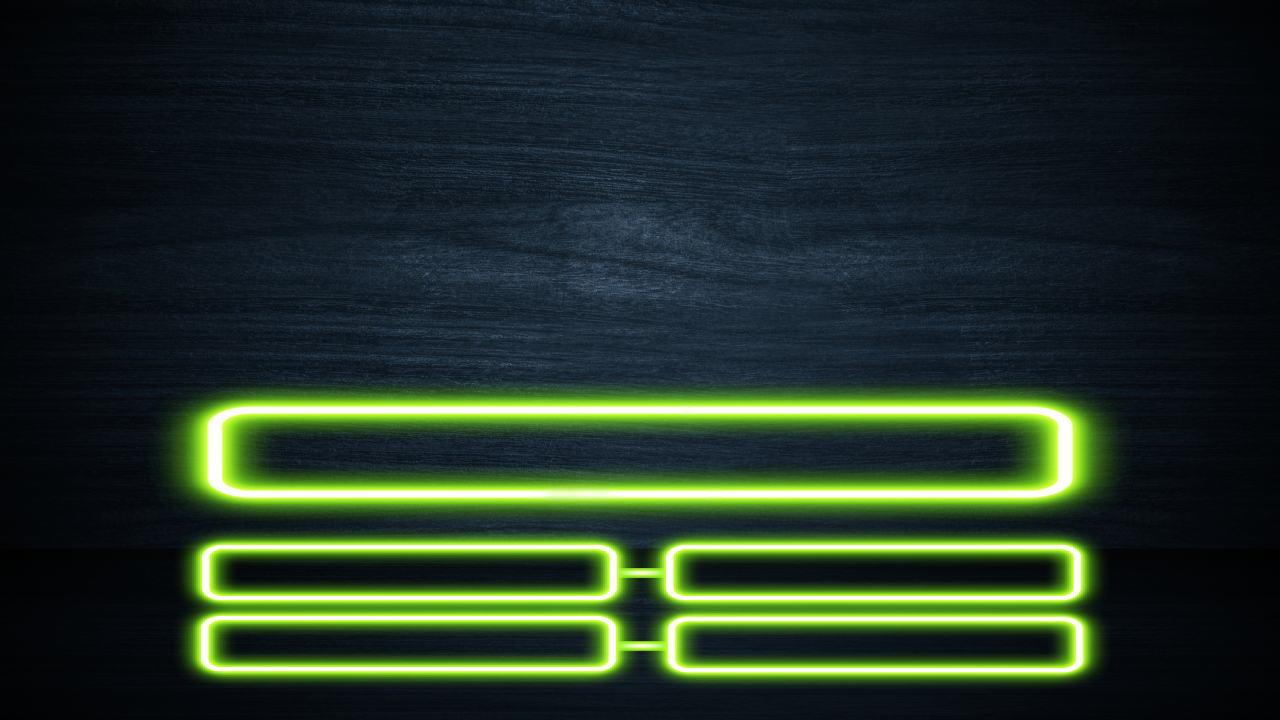
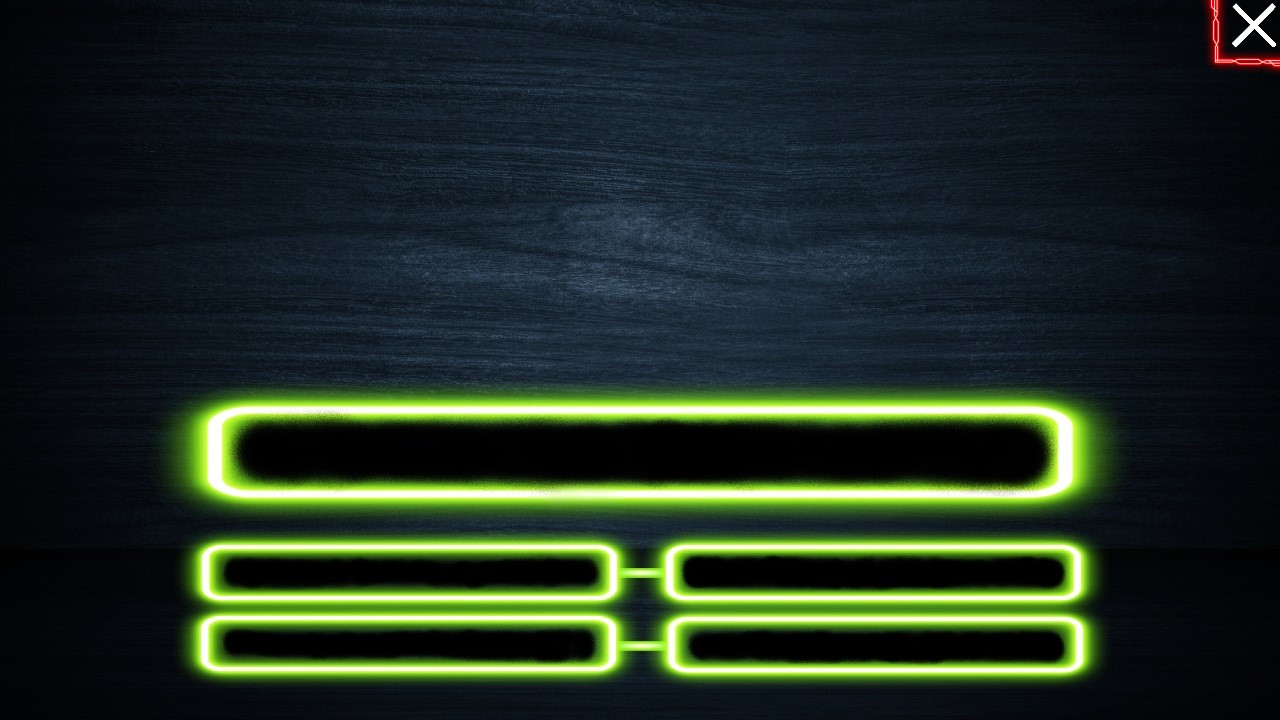
Changing to pygame cd4

Changed region(s): [[0.1562, 0.7333, 0.8438, 0.9472], [0.1562, 0.55, 0.8438, 0.7028], [0.9375, 0.0, 1.0, 0.1222]]

diff --git a/QuizGame/src/mode1.py b/QuizGame/src/mode1.py
@@ -2,13 +2,33 @@ import sys
 import pandas
 import pygame
 from pygame.locals import *
-from utils import drawText, drawProgressBar
+from utils import  show_friends, draw_background, draw_lifebuoys, draw_options, draw_question, draw_score_table,draw_timer
+import random
 
 OLIVE_GREEN = (193, 203, 15)
+def use_50_50(abcd):
+        incorrect_answers = [i for i, ans in enumerate(abcd) if not ans[1]]
+        return random.sample(incorrect_answers, 2)
 
 def mode1_play(window, width):
     bg_img = pygame.image.load('QuizGame/src/resources/game/bg.jpg').convert_alpha()
     option_hover = pygame.image.load('QuizGame/src/resources/game/answer_hover.png').convert_alpha()
+    score_table = [pygame.image.load('QuizGame/src/resources/game/score_table1.jpg').convert_alpha(),
+                    pygame.image.load('QuizGame/src/resources/game/score_table2.jpg').convert_alpha(),
+                    pygame.image.load('QuizGame/src/resources/game/score_table3.jpg').convert_alpha(),
+                    pygame.image.load('QuizGame/src/resources/game/score_table4.jpg').convert_alpha(),
+                    pygame.image.load('QuizGame/src/resources/game/score_table5.jpg').convert_alpha(),
+                    pygame.image.load('QuizGame/src/resources/game/score_table6.jpg').convert_alpha(),
+                    pygame.image.load('QuizGame/src/resources/game/score_table7.jpg').convert_alpha(),
+                    pygame.image.load('QuizGame/src/resources/game/score_table8.jpg').convert_alpha(),
+                    pygame.image.load('QuizGame/src/resources/game/score_table9.jpg').convert_alpha(),
+                    pygame.image.load('QuizGame/src/resources/game/score_table10.jpg').convert_alpha(),
+                    pygame.image.load('QuizGame/src/resources/game/score_table11.jpg').convert_alpha(),
+                    pygame.image.load('QuizGame/src/resources/game/score_table12.jpg').convert_alpha()]
+    
+    lifebuoy_50 =  pygame.image.load('QuizGame/src/resources/game/lifebuoy_50.png').convert_alpha()
+    lifebuoy_friend =  pygame.image.load('QuizGame/src/resources/game/lifebuoy_friend.png').convert_alpha()
+    lifebuoy_time =  pygame.image.load('QuizGame/src/resources/game/lifebuoy_time.png').convert_alpha()
 
     q_base_easy = pandas.read_excel('QuizGame/src/resources/questionsBase.xlsx', "easy", usecols = "A,B,C,D,E,F").to_dict('index')
     q_base_medium = pandas.read_excel('QuizGame/src/resources/questionsBase.xlsx', "medium", usecols = "A,B,C,D,E,F").to_dict('index')
@@ -21,64 +41,47 @@ def mode1_play(window, width):
     question_number = 0
     running = True
     load_next_question = True
+    used_lifebuoy_50 = False
+    used_lifebuoy_friend = False
+    used_lifebuoy_time = False
     start_time = pygame.time.get_ticks()
+    hidden_answers = []
+
+    
+
     while running:
         mouse_pointer = pygame.mouse.get_pos()
-        time_left = full_time - (pygame.time.get_ticks()-start_time)/1000
-        if int(time_left) >= 0:
-            text = timerfont.render(str(int(time_left)), True, (184, 193, 209))
-        window.blit(bg_img,(0,0))
-        text_rect = text.get_rect(center=(width // 2, 200))
-        window.blit(text, text_rect)
+        time_left = full_time - (pygame.time.get_ticks() - start_time) / 1000
 
-        if time_left > 0.1:
-            progress_rect = pygame.Rect(520, 330, 240, 16)
-            drawProgressBar(window, progress_rect, time_left / 30)
+        if  int(time_left) <= 0 or question_number >= 12:
+            sys.exit()
+            running = False
+
+        draw_background(window, bg_img)
+        draw_timer(window, timerfont, time_left, width)
+        draw_score_table(window, score_table, question_number)
 
         if load_next_question:
+            hidden_answers = []
             if question_number <= 3:
                 Q = q_base_easy[question_number]["PYTANIE"]
-                ABCD = [(q_base_easy[question_number]["A"], True), (q_base_easy[question_number]["B"], False), (q_base_easy[question_number]["C"], False), (q_base_easy[question_number]["D"], False)]
+                ABCD = [(q_base_easy[question_number]["A"], True), (q_base_easy[question_number]["B"], False),
+                        (q_base_easy[question_number]["C"], False), (q_base_easy[question_number]["D"], False)]
                 load_next_question = False
             elif question_number <= 7:
                 Q = q_base_medium[question_number - 4]["PYTANIE"]
-                ABCD = [(q_base_medium[question_number - 4]["A"], True), (q_base_medium[question_number - 4]["B"], False), (q_base_medium[question_number - 4]["C"], False), (q_base_medium[question_number - 4]["D"], False)]
+                ABCD = [(q_base_medium[question_number - 4]["A"], True), (q_base_medium[question_number - 4]["B"], False),
+                        (q_base_medium[question_number - 4]["C"], False), (q_base_medium[question_number - 4]["D"], False)]
                 load_next_question = False
             else:
                 Q = q_base_hard[question_number - 8]["PYTANIE"]
-                ABCD = [(q_base_hard[question_number - 8]["A"], True), (q_base_hard[question_number - 8]["B"], False), (q_base_hard[question_number - 8]["C"], False), (q_base_hard[question_number - 8]["D"], False)]
+                ABCD = [(q_base_hard[question_number - 8]["A"], True), (q_base_hard[question_number - 8]["B"], False),
+                        (q_base_hard[question_number - 8]["C"], False), (q_base_hard[question_number - 8]["D"], False)]
                 load_next_question = False
 
-        Q_frame = pygame.Rect(240, 430, 1045 - 240, 480 - 420)
-        drawText(window, Q, "white", Q_frame, qafont, True)
-
-        optionA_frame = pygame.Rect(210, 560, 370, 30)
-        if 206 < mouse_pointer[0] < 610 and 548 < mouse_pointer[1] < 598:
-            window.blit(option_hover, (208, 548))
-            drawText(window, ABCD[0][0], "black", optionA_frame, qafont, True)
-        else:
-            drawText(window, ABCD[0][0], "white", optionA_frame, qafont, True)
-
-        optionB_frame = pygame.Rect(690, 560, 370, 30)
-        if 675 < mouse_pointer[0] < 1076 and 548 < mouse_pointer[1] < 598:
-            window.blit(option_hover, (670, 548))
-            drawText(window, ABCD[1][0], "black", optionB_frame, qafont, True)
-        else:
-            drawText(window, ABCD[1][0], "white", optionB_frame, qafont, True)
-
-        optionC_frame = pygame.Rect(210, 630, 370, 30)
-        if 206 < mouse_pointer[0] < 610 and 620 < mouse_pointer[1] < 665:
-            window.blit(option_hover, (206, 619))
-            drawText(window, ABCD[2][0], "black", optionC_frame, qafont, True)
-        else:
-            drawText(window, ABCD[2][0], "white", optionC_frame, qafont, True)
-
-        optionD_frame = pygame.Rect(690, 630, 370, 30)
-        if 675 < mouse_pointer[0] < 1076 and 620 < mouse_pointer[1] < 665:
-            window.blit(option_hover, (674, 620))
-            drawText(window, ABCD[3][0], "black", optionD_frame, qafont, True)
-        else:
-            drawText(window, ABCD[3][0], "white", optionD_frame, qafont, True)
+        draw_question(window, Q, qafont)
+        draw_options(window, ABCD, qafont, mouse_pointer, option_hover, hidden_answers)
+        draw_lifebuoys(window, lifebuoy_50, lifebuoy_time, lifebuoy_friend, used_lifebuoy_50, used_lifebuoy_time, used_lifebuoy_friend)
 
         pygame.display.update()
 
@@ -87,37 +90,48 @@ def mode1_play(window, width):
                 running = False
             if event.type == MOUSEBUTTONDOWN:
                 if event.button == 1:
-                    if 206 < mouse_pointer[0] < 610 and 548 < mouse_pointer[1] < 598:
+                    if 206 < mouse_pointer[0] < 610 and 548 < mouse_pointer[1] < 598 and 0 not in hidden_answers:
                         question_number += 1
                         start_time = pygame.time.get_ticks()
                         full_time = 30
-                        if ABCD[0][1] == 'F':
+                        if not ABCD[0][1]:
                             sys.exit()
                         else:
                             load_next_question = True
-                    if 675 < mouse_pointer[0] < 1076 and 548 < mouse_pointer[1] < 598:
+                    if 675 < mouse_pointer[0] < 1076 and 548 < mouse_pointer[1] < 598 and 1 not in hidden_answers:
                         question_number += 1
                         start_time = pygame.time.get_ticks()
                         full_time = 30
-                        if ABCD[1][1] == 'F':
+                        if not ABCD[1][1]:
                             sys.exit()
                         else:
                             load_next_question = True
-                    if 206 < mouse_pointer[0] < 610 and 620 < mouse_pointer[1] < 665:
-                        start_time = pygame.time.get_ticks()
-                        full_time = 30
-                        if ABCD[2][1] == 'F':
-                            sys.exit()
-                        else:
-                            load_next_question = True
-                    if 675 < mouse_pointer[0] < 1076 and 620 < mouse_pointer[1] < 665:
+                    if 206 < mouse_pointer[0] < 610 and 620 < mouse_pointer[1] < 665 and 2 not in hidden_answers:
                         question_number += 1
                         start_time = pygame.time.get_ticks()
                         full_time = 30
-                        if ABCD[3][1] == 'F':
+                        if not ABCD[2][1]:
+                            sys.exit()
+                        else:
+                            load_next_question = True
+                    if 675 < mouse_pointer[0] < 1076 and 620 < mouse_pointer[1] < 665 and 3 not in hidden_answers:
+                        question_number += 1
+                        start_time = pygame.time.get_ticks()
+                        full_time = 30
+                        if not ABCD[3][1]:
                             sys.exit()
                         else:
                             load_next_question = True
 
-                    if 1106 < mouse_pointer[0] < 1249 and 12 < mouse_pointer[1] < 36:
+                    if 520 < mouse_pointer[0] < 590 and 310 < mouse_pointer[1] < 380 and not used_lifebuoy_50:
+                        used_lifebuoy_50 = True
+                        hidden_answers = use_50_50(ABCD)
+                    if 600 < mouse_pointer[0] < 670 and 310 < mouse_pointer[1] < 380 and not used_lifebuoy_time:
+                        used_lifebuoy_time = True
+                        full_time += 30
+                    if 680 < mouse_pointer[0] < 750 and 310 < mouse_pointer[1] < 380 and not used_lifebuoy_friend:
+                        used_lifebuoy_friend = True
+                        show_friends()
+
+                    if 1215 < mouse_pointer[0] < 1280 and 0 < mouse_pointer[1] < 62:
                         sys.exit()

diff --git a/QuizGame/src/utils.py b/QuizGame/src/utils.py
@@ -1,61 +1,98 @@
 # drawing_utils.py
 import pygame
+def draw_background(window, bg_img):
+    window.blit(bg_img, (0, 0))
 
-GREEN = (193, 203, 15)
-BLACK = (0, 0, 0)
+def draw_timer(window, timerfont, time_left, width):
+    text = timerfont.render(str(int(time_left)), True, (184, 193, 209))
+    text_rect = text.get_rect(center=(width // 2, 200))
+    window.blit(text, text_rect)
 
-def drawProgressBar(surface, rect, progress):
-    filled_rect = pygame.Rect(rect.left, rect.top, rect.width * progress, rect.height)
-    pygame.draw.rect(surface, GREEN, filled_rect)
-    pygame.draw.rect(surface, BLACK, rect, 2)
+def draw_question(window, question, qafont):
+    Q_frame = pygame.Rect(240, 430, 805, 50)
+    draw_text(window, question, "white", Q_frame, qafont, True)
 
-textAlignLeft = 0
-textAlignRight = 1
-textAlignCenter = 2
-textAlignBlock = 3
+def draw_options(window, ABCD, qafont, mouse_pointer, option_hover, hidden_answers):
+    option_frames = [
+        pygame.Rect(210, 560, 370, 30),
+        pygame.Rect(690, 560, 370, 30),
+        pygame.Rect(210, 630, 370, 30),
+        pygame.Rect(690, 630, 370, 30)
+    ]
 
-def drawText(surface, text, color, rect, font, aa=True, bkg=None):
-    lineSpacing = -2
-    spaceWidth, fontHeight = font.size(" ")[0], font.size("Tg")[1]
+    hover_conditions = [
+        (206 < mouse_pointer[0] < 610 and 548 < mouse_pointer[1] < 598),
+        (675 < mouse_pointer[0] < 1076 and 548 < mouse_pointer[1] < 598),
+        (206 < mouse_pointer[0] < 610 and 620 < mouse_pointer[1] < 665),
+        (675 < mouse_pointer[0] < 1076 and 620 < mouse_pointer[1] < 665)
+    ]
 
-    listOfWords = str(text).split(" ")
+    for i, frame in enumerate(option_frames):
+        if i not in hidden_answers:
+            if hover_conditions[i]:
+                window.blit(option_hover, (frame.x - 2, frame.y - 12))
+                draw_text(window, ABCD[i][0], "black", frame, qafont, True)
+            else:
+                draw_text(window, ABCD[i][0], "white", frame, qafont, True)
+
+def draw_lifebuoys(window, lifebuoy_50, lifebuoy_time, lifebuoy_friend, used_lifebuoy_50, used_lifebuoy_time, used_lifebuoy_friend):
+    if not used_lifebuoy_50:
+        window.blit(lifebuoy_50, (520, 310))
+    if not used_lifebuoy_time:
+        window.blit(lifebuoy_time, (600, 310))
+    if not used_lifebuoy_friend:
+        window.blit(lifebuoy_friend, (680, 310))
+
+def draw_score_table(window, score_table, question_number):
+    if question_number <= 12:
+        window.blit(score_table[question_number], (5, 5))
+
+def show_friends():
+    pass
+
+def draw_text(surface, text, color, rect, font, aa=True, bkg=None):
+    line_spacing = -2
+    space_width, font_height = font.size(" ")[0], font.size("Tg")[1]
+
+    list_of_words = str(text).split(" ")
     if bkg:
-        imageList = [font.render(word, 1, color, bkg) for word in listOfWords]
-        for image in imageList: image.set_colorkey(bkg)
+        image_list = [font.render(word, 1, color, bkg) for word in list_of_words]
+        for image in image_list: image.set_colorkey(bkg)
     else:
-        imageList = [font.render(word, aa, color) for word in listOfWords]
+        image_list = [font.render(word, aa, color) for word in list_of_words]
 
-    maxLen = rect[2]
-    lineLenList = [0]
-    lineList = [[]]
-    for image in imageList:
+    max_len = rect[2]
+    line_len_list = [0]
+    line_list = [[]]
+    for image in image_list:
         width = image.get_width()
-        lineLen = lineLenList[-1] + len(lineList[-1]) * spaceWidth + width
-        if len(lineList[-1]) == 0 or lineLen <= maxLen:
-            lineLenList[-1] += width
-            lineList[-1].append(image)
+        line_len = line_len_list[-1] + len(line_list[-1]) * space_width + width
+        if len(line_list[-1]) == 0 or line_len <= max_len:
+            line_len_list[-1] += width
+            line_list[-1].append(image)
         else:
-            lineLenList.append(width)
-            lineList.append([image])
+            line_len_list.append(width)
+            line_list.append([image])
 
-    lineBottom = rect[1]
-    lastLine = 0
-    for lineLen, lineImages in zip(lineLenList, lineList):
-        lineLeft = rect[0]
-        lineLeft += (rect[2] - lineLen - spaceWidth * (len(lineImages)-1)) // 2
+    line_bottom = rect[1]
+    last_line = 0
+    for line_len, line_images in zip(line_len_list, line_list):
+        line_left = rect[0]
+        line_left += (rect[2] - line_len - space_width * (len(line_images)-1)) // 2
         
-        if lineBottom + fontHeight > rect[1] + rect[3]:
+        if line_bottom + font_height > rect[1] + rect[3]:
             break
-        lastLine += 1
-        for i, image in enumerate(lineImages):
-            x, y = lineLeft + i*spaceWidth, lineBottom
+        last_line += 1
+        for i, image in enumerate(line_images):
+            x, y = line_left + i*space_width, line_bottom
             surface.blit(image, (round(x), y))
-            lineLeft += image.get_width() 
-        lineBottom += fontHeight + lineSpacing
+            line_left += image.get_width() 
+        line_bottom += font_height + line_spacing
 
-    if lastLine < len(lineList):
-        drawWords = sum([len(lineList[i]) for i in range(lastLine)])
-        remainingText = ""
-        for text in listOfWords[drawWords:]: remainingText += text + " "
-        return remainingText
+    if last_line < len(line_list):
+        draw_words = sum([len(line_list[i]) for i in range(last_line)])
+        remaining_text = ""
+        for text in list_of_words[draw_words:]: remaining_text += text + " "
+        return remaining_text
     return ""
+
